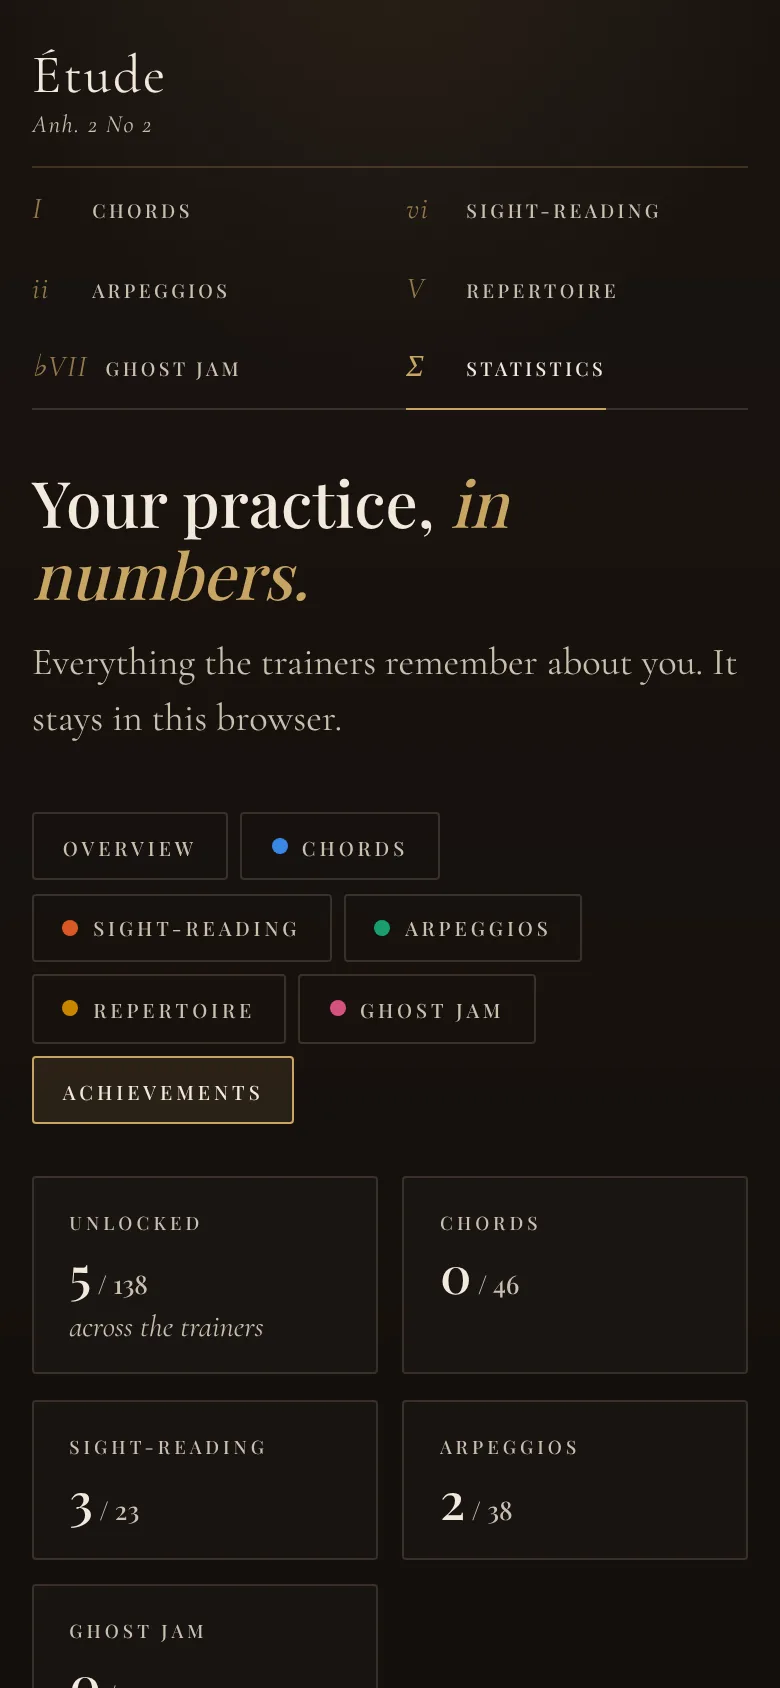
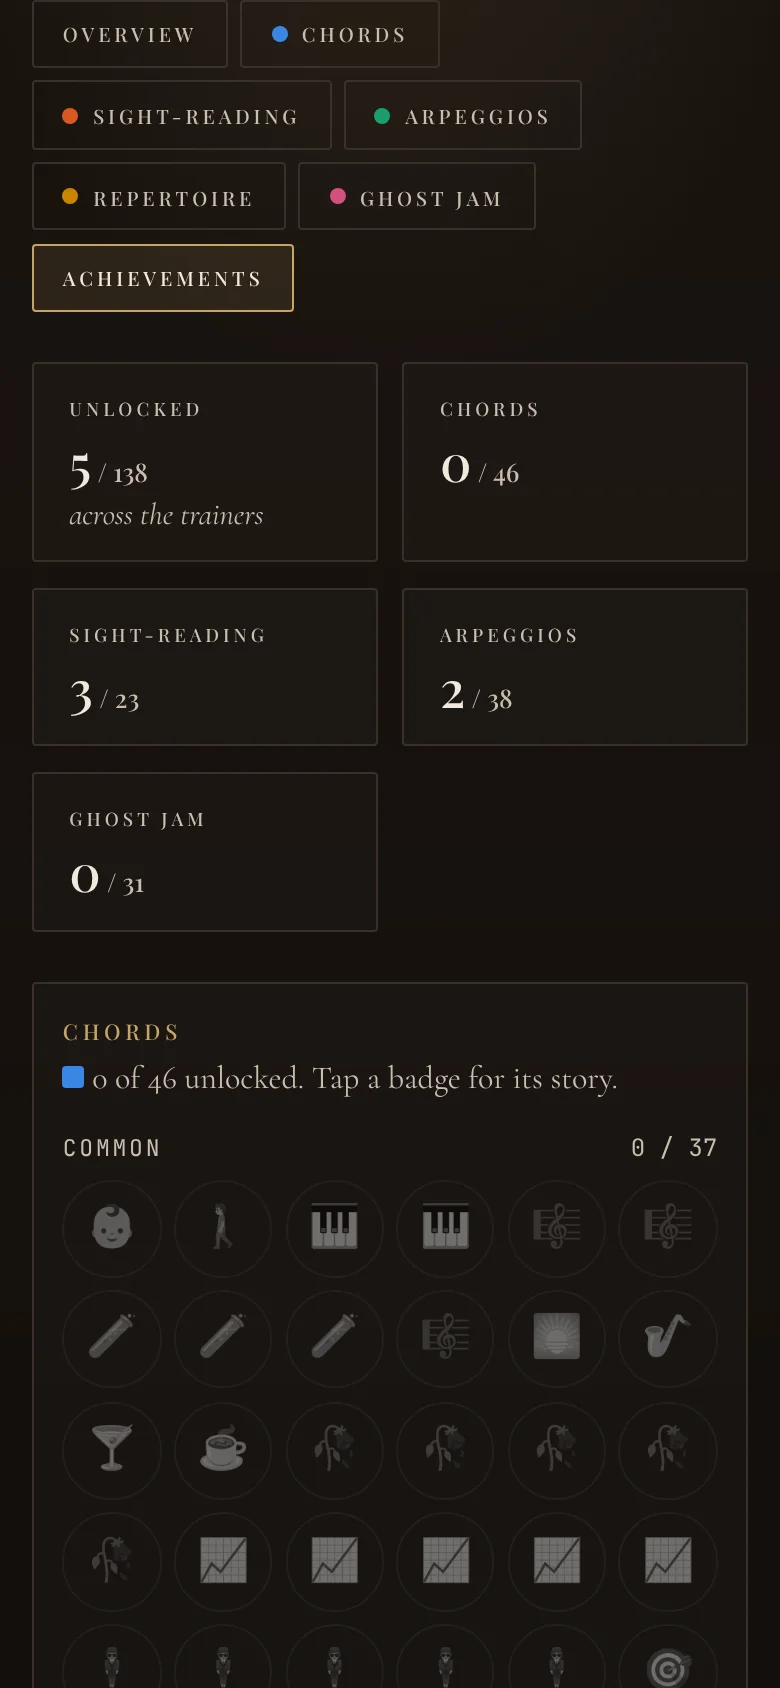
Statistics: the backup sits above the tabs, for every trainer
It was under the tab panel, so on each trainer's tab it read as that
trainer's backup. It now sits under the title, before the tabs, and says
one file holds every trainer.

Claude-Session: https://claude.ai/code/session_011Vmu6nFhwP625B8vLFzkgd

diff --git a/stats/index.html b/stats/index.html
@@ -34,7 +34,7 @@
     <div class="hd-top">
       <a href="../" class="hd-brand" aria-label="Étude, home">
         <span class="hd-name">Étude</span>
-        <span class="hd-opus">Anh. 2 No 2</span>
+        <span class="hd-opus">Anh. 2 No 3</span>
       </a>
       <div class="hd-actions">
       </div>
@@ -52,8 +52,21 @@
   <main>
     <div class="hero">
       <h1 class="hero-title">Your practice, <em>in numbers.</em></h1>
-      <p class="hero-sub" id="heroSub">Everything the trainers remember about you. It stays in this browser.</p>
+      <p class="hero-sub" id="heroSub">Everything the trainers remember about you.</p>
     </div>
+
+    <section class="backup" aria-labelledby="backupTitle">
+      <div class="backup-text">
+        <h2 class="backup-title" id="backupTitle">Keep a copy of your progress</h2>
+        <p>One file holds every trainer: stars, achievements, high scores, settings and this history. They live only in this browser, and Safari can clear them after a few weeks away. Save a copy now and then, and restore it on any device.</p>
+        <p class="backup-msg" id="backupMsg" role="status" hidden></p>
+      </div>
+      <div class="backup-actions">
+        <button type="button" class="ghost-btn" id="backupSaveBtn">Save a backup</button>
+        <button type="button" class="ghost-btn" id="backupLoadBtn">Restore a backup</button>
+        <input type="file" id="backupFile" accept="application/json,.json" hidden>
+      </div>
+    </section>
 
     <div class="tabs" role="tablist" id="tabs">
       <button type="button" role="tab" class="tab is-on" data-tab="all" aria-selected="true">Overview</button>
@@ -66,19 +79,6 @@
     </div>
 
     <div id="panel" class="panel-body" role="tabpanel"></div>
-
-    <section class="backup" aria-labelledby="backupTitle">
-      <div class="backup-text">
-        <h2 class="backup-title" id="backupTitle">Keep a copy of your progress</h2>
-        <p>Stars, achievements, high scores, settings and this history live only in this browser. Safari can clear them after a few weeks away from the site. Save a backup file now and then, and restore it here on any device.</p>
-        <p class="backup-msg" id="backupMsg" role="status" hidden></p>
-      </div>
-      <div class="backup-actions">
-        <button type="button" class="ghost-btn" id="backupSaveBtn">Save a backup</button>
-        <button type="button" class="ghost-btn" id="backupLoadBtn">Restore a backup</button>
-        <input type="file" id="backupFile" accept="application/json,.json" hidden>
-      </div>
-    </section>
   </main>
 
   <footer class="page-footer">

diff --git a/stats/stats.css b/stats/stats.css
@@ -442,8 +442,8 @@ button {
 /* ---- backup ---- */
 
 .backup {
-  margin-top: 3rem;
-  padding: 1.4rem 1.6rem;
+  margin-bottom: 2.2rem;
+  padding: 1.1rem 1.4rem;
   border: 1px solid var(--line);
   background: var(--card);
   display: flex;
@@ -453,8 +453,8 @@ button {
   justify-content: space-between;
 }
 .backup-text { flex: 1 1 420px; min-width: 0; }
-.backup-title { font-family: var(--font-display); font-weight: 500; font-size: 1.35rem; margin-bottom: 0.4rem; }
-.backup-text p { color: var(--ivory-dim); line-height: 1.5; font-size: 1.05rem; }
+.backup-title { font-family: var(--font-display); font-weight: 500; font-size: 1.2rem; margin-bottom: 0.4rem; }
+.backup-text p { color: var(--ivory-dim); line-height: 1.45; font-size: 1rem; }
 .backup-msg { margin-top: 0.6rem; color: var(--gold) !important; }
 .backup-msg.is-error { color: var(--crimson) !important; }
 .backup-actions { display: flex; flex-wrap: wrap; gap: 0.6rem; }

diff --git a/AGENTS.md b/AGENTS.md
@@ -41,7 +41,7 @@ Current versions (keep this table in sync):
 | Repertoire | Op. 5 No 12 |
 | Ghost Jam | Op. 7 No 17 |
 | PDF to MIDI | Anh. 1 No 10 |
-| Statistics | Anh. 2 No 2 |
+| Statistics | Anh. 2 No 3 |
 
 ## Shared pieces
 
